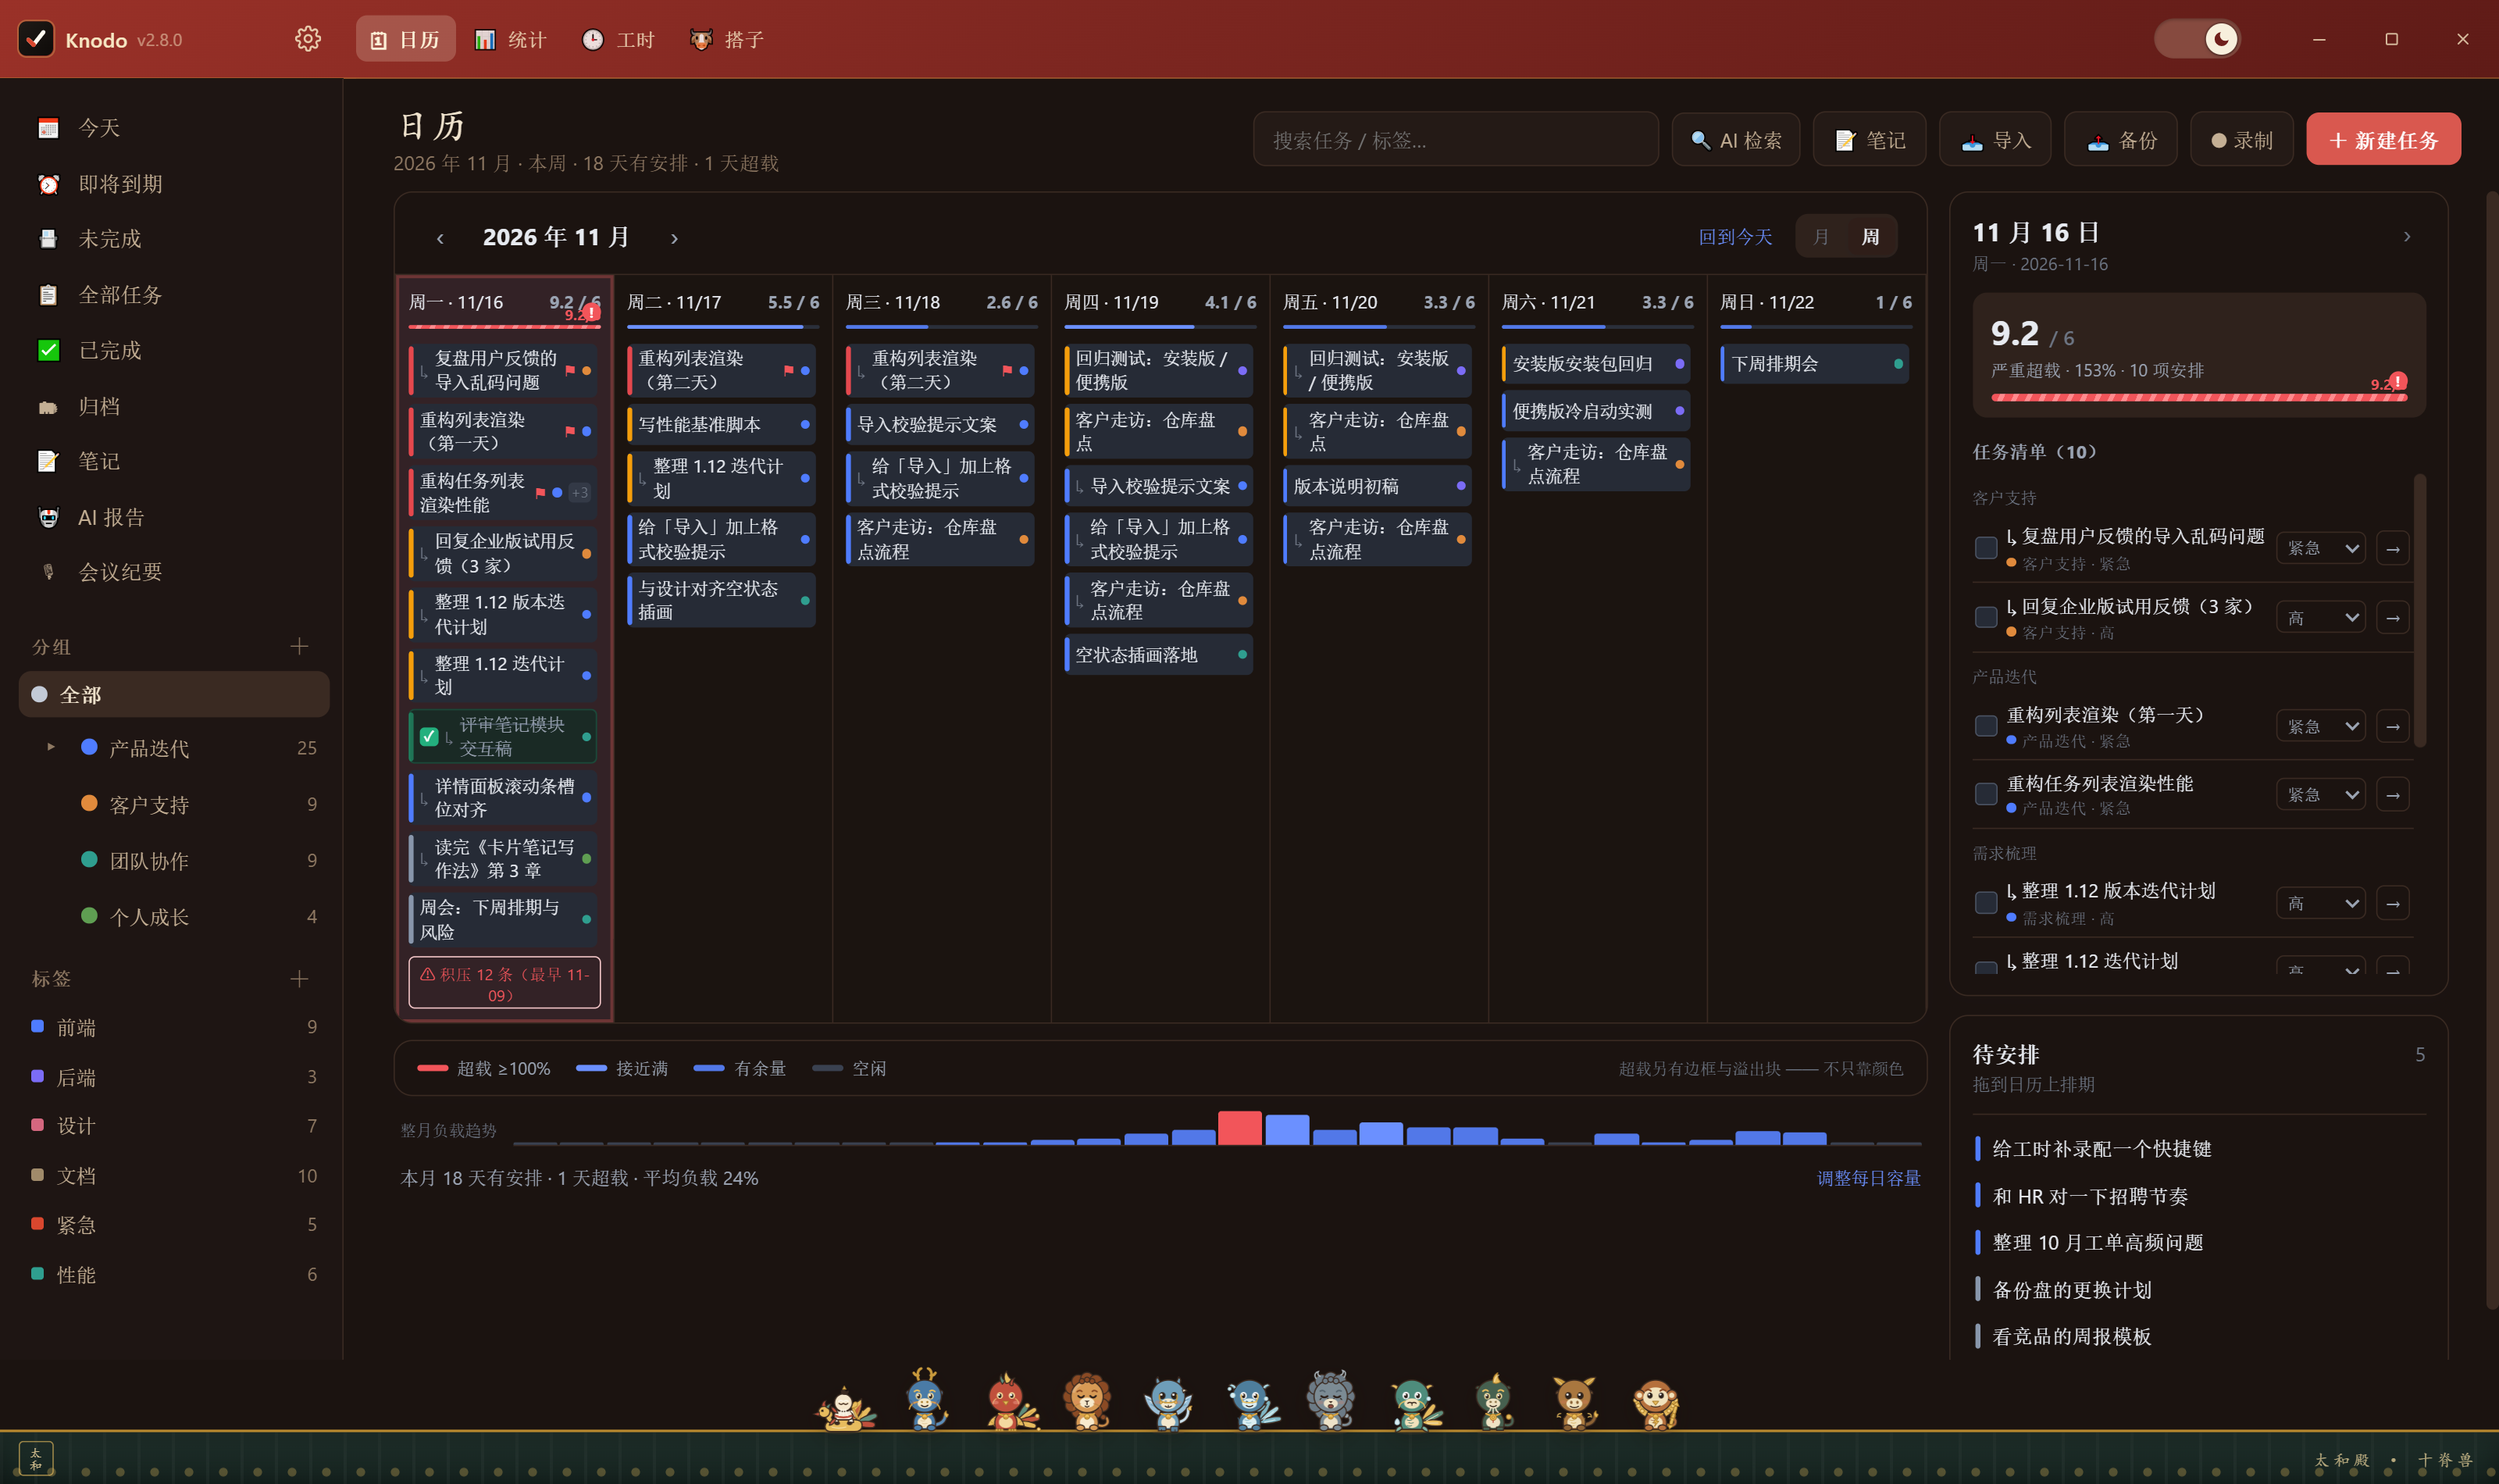
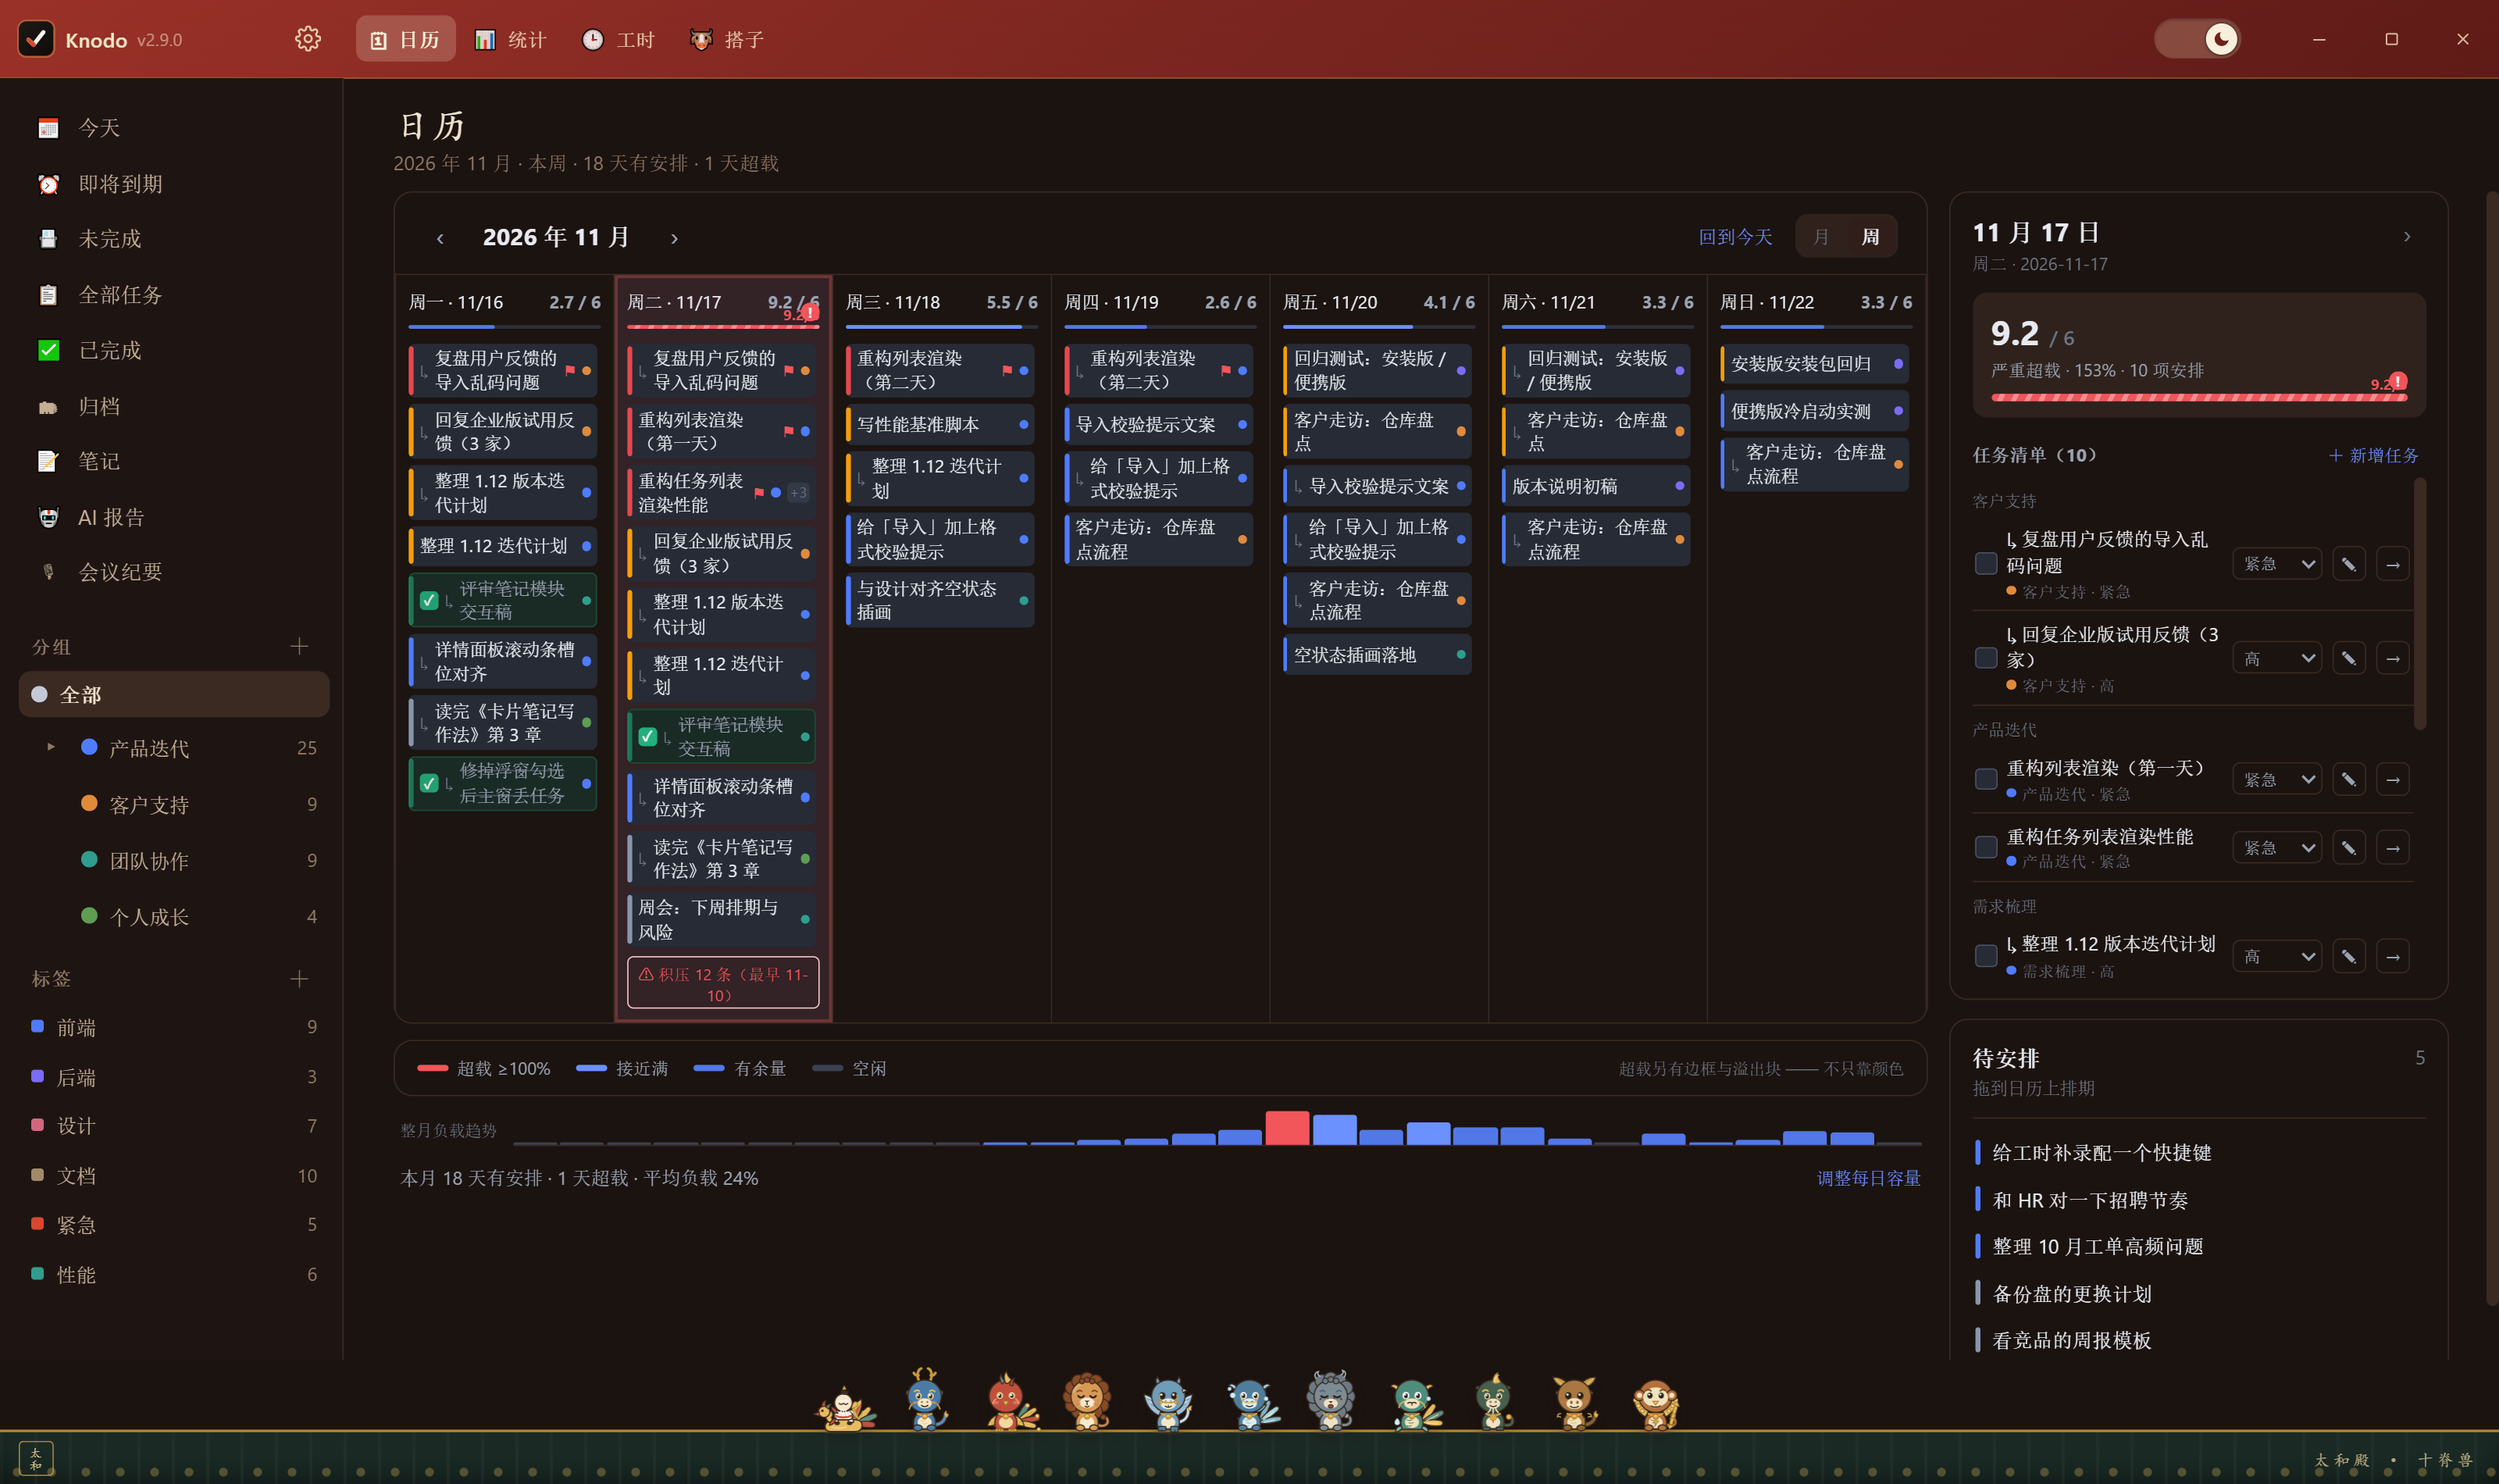
docs(release): v2.9.0 截图重拍与文档补全
截图（故宫深色，其余不变）：
- calendar-month / calendar-week：日历页不再有顶部工具行，右栏多了「＋ 新增任务」
  与每行的 ✎，旧图里还能看到那一排按钮，与实际界面已经不符；
- meetings：工具栏从单个「⏺ 录制」变成「🎙 录音 / 🖥 录屏」+ 分段下拉；
- settings-keys：滚到「语音录入任务」那一行起拍，本版新增的键就在最上面；
  shots.js 的滚动锚点从 app.toggleDesktop 改成 app.voiceTask。

文档：
- README 补知识库问答的两栏骨架（可缩放、遮罩与 Esc 不关窗）与设置中心页脚栏；
- 功能详解 · 笔记与知识库补同一段界面口径（含 resizeKey / 重复点入口只聚焦）；
- 新增 docs/features/语音建任务-实现方案.md：音频「识别后即删」、submit / commit 两段、
  错误码跨 contextBridge 的还原方式、三个踩过的坑（骨架屏竞态、全局热键被占用、
  不显示波形以免被误以为文件留下了）。

diff --git a/scripts/shots.js b/scripts/shots.js
@@ -534,8 +534,9 @@ const shots = {
     await page.evaluate(click('.st-nav-item[data-nav="keys"]'));
     await sleep(1400);
     // 这台机器上第三方程序占着 Ctrl+Alt+C，首屏挂着一条红字「未能注册」——放进 README 会被读成缺陷。
-    // 滚到「显示 / 隐藏桌面浮窗」那一行起：还是同一张可录制的全局键列表，只是看不到那一条
-    await scrollPanelTo(page, '.st-krow[data-key="app.toggleDesktop"]', 8);
+    // 滚到「语音录入任务」那一行起：本版新增的那一条在最上面，下面紧跟截图建任务与浮窗键，
+    // 被占用的那一条刚好落在可视区上方。
+    await scrollPanelTo(page, '.st-krow[data-key="app.voiceTask"]', 8);
     // 往下滚一屏：这台机器上第三方程序占着 Ctrl+Alt+C，首屏会挂着一条红字「未能注册」，
     // 放进 README 会被读成缺陷。滚到下面几行，仍然是同一张全局快捷键列表（行内胶囊、可录制）
     return page.shot(path.join(outDir, 'settings-keys.png'));

diff --git a/docs/features/语音建任务-实现方案.md b/docs/features/语音建任务-实现方案.md
@@ -1,0 +1,58 @@
+# 快速语音录入任务 · 实现方案
+
+> 状态：已上线（v2.9.0）
+> 入口：`Ctrl+Alt+R`（全局，可改）→ 再按一次停止 → 确认卡 → 勾选后建任务
+> 代码：`main/voice-task.js`（ASR + 提取 + 落库）、`renderer/js/voice-task.js`（录音内核 + 确认卡）、
+> `renderer/css/voice.css`；验收 `npm run verify:voice`
+
+## 一、它要解决的是「打字这一步太贵」
+
+开车、做饭、手里有活的时候想起一件事，打开应用 → 找清单 → 敲字，这一串动作足够让人放弃记录。
+所以这条链路只保留两个动作：**按一下说，再按一下看结果**。
+
+不做「流式语音输入框」：边说话边把字打进输入框，用户还要自己断句、自己起标题、自己挑清单，
+等于把成本转移到别处。这里直接给**成品的待办草稿**，用户只做减法（勾掉不想要的）。
+
+## 二、三条不变量（改代码前先读）
+
+1. **音频识别后即删。** 录音只经过「渲染层内存 → IPC base64 → 系统临时目录」，ASR 完成立刻 `unlink`。
+   不进 `recordings/`、不进附件系统、不进备份包。需要留声音的场合是「🎙 录音 / 🖥 录屏」那条链路，
+   两者刻意不复用。
+2. **识别与落库分离。** `submit()` 只做 ASR + AI 提取，返回草稿，一个字节都不写库；`commit()` 只吃用户
+   勾完的数组。中间那段是「用户可能全不选」的地带，不能有副作用 —— 否则每按一次快捷键都会在库里留下垃圾。
+3. **`main/voice-task.js` 不 require `ipc.js`**（会成环）。配置读取在该模块内自己实现，
+   settings 键与 `ipc.js#getAsrConfig / getAiConfig` 保持同一套；渲染层拿到的是信封，
+   错误码靠 `__code` 还原（`contextBridge` 复制 `Error` 只保留 message/stack，`err.code` 会丢）。
+
+## 三、状态机与接口
+
+| 阶段 | 位置 | 说明 |
+|---|---|---|
+| 开麦 | 渲染层 `MediaRecorder` | 主进程只把窗口唤起来并推 `ui:voice-toggle`，**不持录音状态** |
+| 停录 | 渲染层 | 只在内存里攒 webm，停录后一次性 base64 过 IPC |
+| 识别 | 主进程 `submit()` | 写临时文件 → ASR 转写 → 删文件 → AI 抽待办 → 返回草稿 |
+| 确认 | 渲染层卡片 | 与截图建任务同一套 `.shot-*` 骨架，卡顶是麦克风块 |
+| 落库 | 主进程 `commit()` | 只建勾选的条目，`planEnd = 今天`，描述里回带转写原文 |
+
+IPC：`voice:status` / `voice:submit` / `voice:commit`，preload 一律走 `envelope()`
+（`api.voiceTask.*`），卡片侧 `voiceApi()` 把 `{ok:false,code}` 还原成带 `code` 的异常 ——
+`NO_ASR_KEY` / `NO_API_KEY` 走「去配置」，其他走「重试」。
+
+快捷键只有一张卡、一条录音：卡片打开时再按快捷键直接忽略；录音中再按是「停止」而不是叠第二个遮罩。
+
+## 四、几个具体取值
+
+- **20MB 上限**（`MAX_AUDIO_BYTES`）：webm/opus 约十几分钟，再长就该用会议录制。
+- **转写截 12000 字**（`MAX_TRANSCRIPT_CHARS`）送模型，避免超上下文；回给卡片的是完整原文。
+- **描述里只回带 2000 字**（`MAX_NOTE_TRANSCRIPT`）：够核对「当时说的是这句」，不至于把任务描述撑成一篇稿。
+- **落库分组**：上一次手动选过的分组（`ui.lastAddGroupId`）→ 最近用过的分组 → 第一个分组；
+  一条分组都没有时直接报 `NO_GROUP`，不让任务落进「无分组」黑箱。
+
+## 五、踩过的坑
+
+- **骨架屏是中间态，测试不能靠抢。** mock 秒回时卡片会在下一个 CDP 往返之前就切到结果页，
+  「先显示骨架」永远假红。`verify:voice` 的 mock ASR 故意延迟 300ms（`ASR_DELAY_MS`）。
+- **全局热键是整机唯一资源。** 本机另开着一份 Knodo 时，这一份实例的 16 个热键全部注册失败 ——
+  验收脚本按「一个都没注册上 → 判环境不可测并跳过；别的键注册上、唯独它没有 → 真失败」两分。
+- **音频不进附件，所以没有 `attachments` 行、也没有 `todo-media://` 链接**；卡片里也刻意不显示波形 / 播放器，
+  否则用户会以为文件被留下了。

diff --git a/docs/README.md b/docs/README.md
@@ -40,6 +40,7 @@
 | [工时插件 · 实现方案](features/工时插件-实现方案.md) | 工时为什么单开一张表（不复用 `focus_sessions`）、子任务累积为什么用递归 CTE 现算而不是写回任务表、开关的三层卸载、报工 CSV 的口径 |
 | [工时记薪 · 实现方案](features/工时记薪-实现方案.md) | 时间价值（不是工资条）的边界：整数分与纯整数四舍五入、费率按生效日存时间序列、汇总为什么要「逐条舍入相加」、无费率时为什么必须显示引导而不是 ¥0 |
 | [截图建任务 · 实现方案](features/截图建任务-实现方案.md) | 为什么先落确认卡再建任务（recognize / commit 两段）、视觉模型为什么单独配并与对话模型回落、剪贴板与框选两条入口的取舍、覆盖层的裁剪换算 |
+| [语音建任务 · 实现方案](features/语音建任务-实现方案.md) | 为什么不做流式语音输入框、音频为什么必须「识别后即删」、识别与落库为什么分两段（submit / commit）、错误码怎么跨 contextBridge 还原 |
 | [上班鼓励器-设计方案](上班鼓励器-设计方案.md) | 趣味功能的取舍：每秒进账口径、每日签的确定性、牛马币与真钱的视觉分离、双主题与隐私 |
 | [太和殿·脊兽 故宫主题](palace-theme/README.md) | 十只走兽 + 骑凤仙人的卡通形象、悬停介绍卡与界面边沿陈列（含可交互设计稿） |
 

diff --git a/docs/功能详解-笔记与知识库.md b/docs/功能详解-笔记与知识库.md
@@ -177,6 +177,11 @@ AI 查询改写 → 多路召回（分块 FTS + 笔记级 + 模糊）→ RRF 融
 - **未配置 AI Key 时整条链路自动降级为纯关键词召回**，功能不中断，只是没有语义重排与生成。
 - 问答历史单独存 `kb_qa` 表（随备份走）。
 
+弹窗界面与「AI 检索」共用同一套骨架（`.search-panel` / `.sh-*` / `.sr-*`）：左边提问历史、右边答案与引用来源，
+顶部一行「检索范围」chips（分类多选，含子目录，不选 = 全部笔记）。窗口可拖角缩放且记住尺寸
+（`resizeKey: 'kb-search'`，最小 620×420）；遮罩误点与 Esc 都不关窗 —— 一次问答花了 AI 额度，
+误触把结果弄丢的代价比多按一次 Esc 大，只有 ✕ 与底部「关闭」能退出。重复点入口只聚焦、不叠第二层。
+
 ---
 
 ## 十、任务 ↔ 笔记（多对多）
